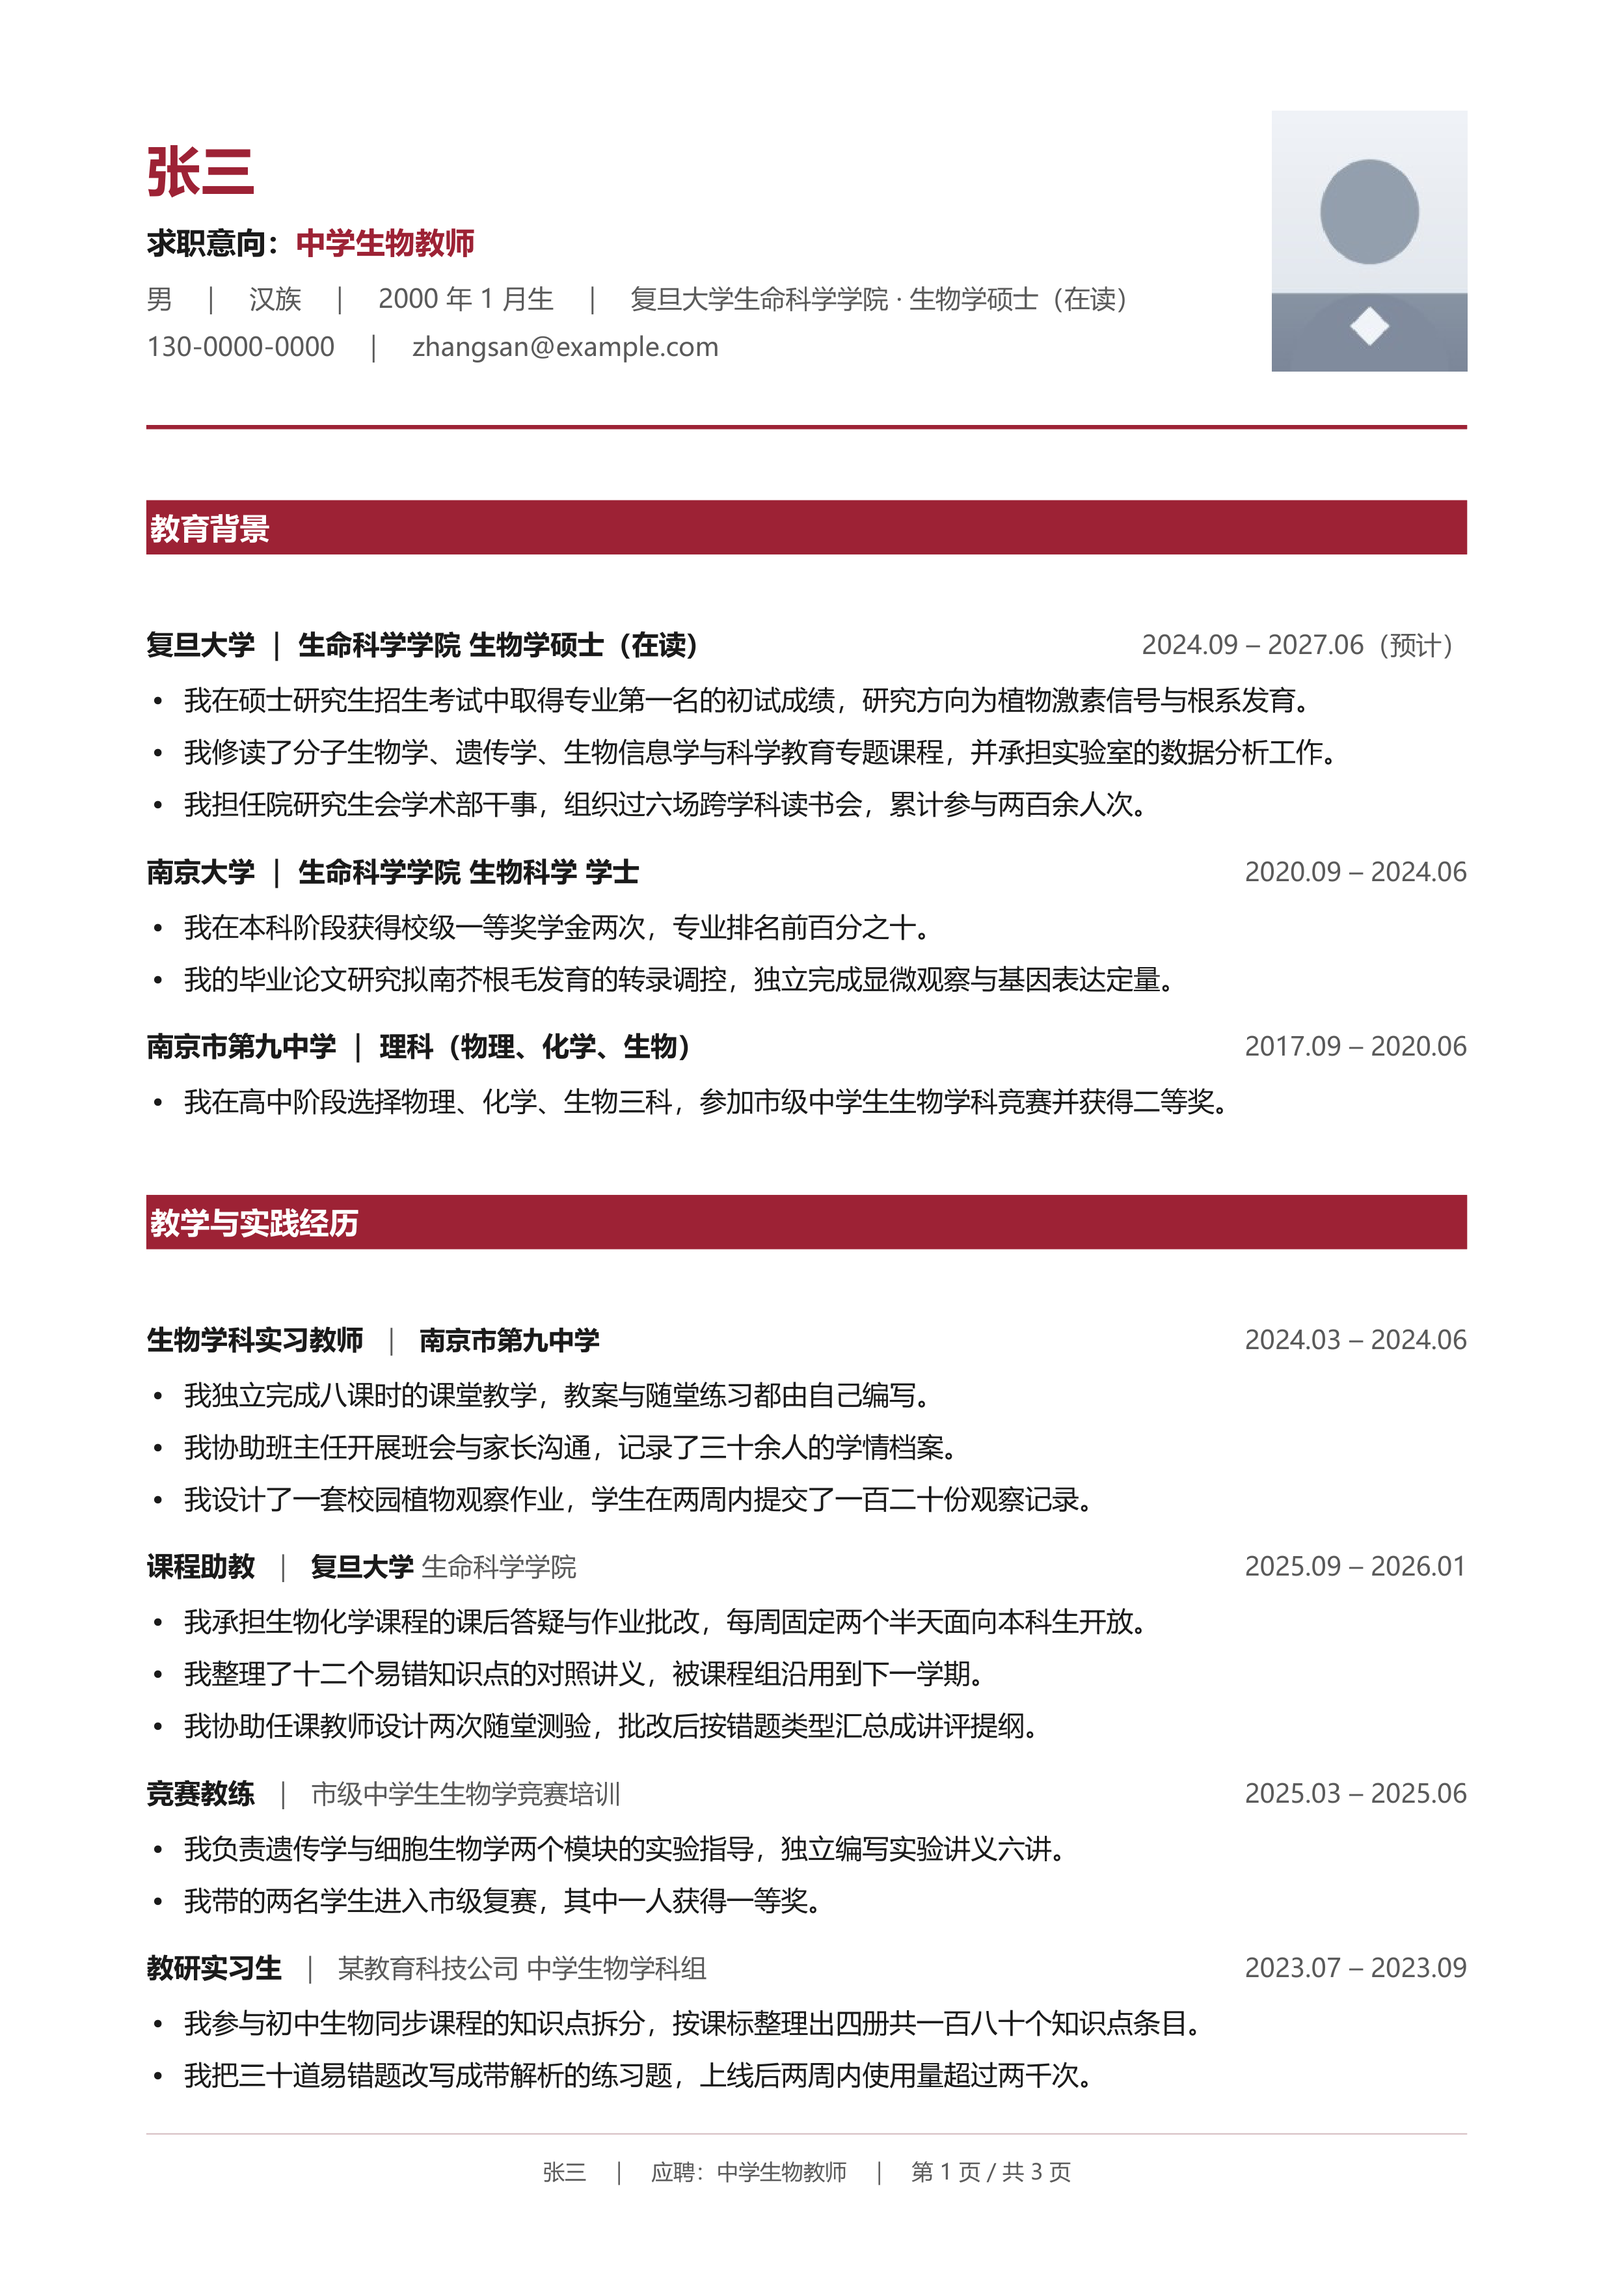
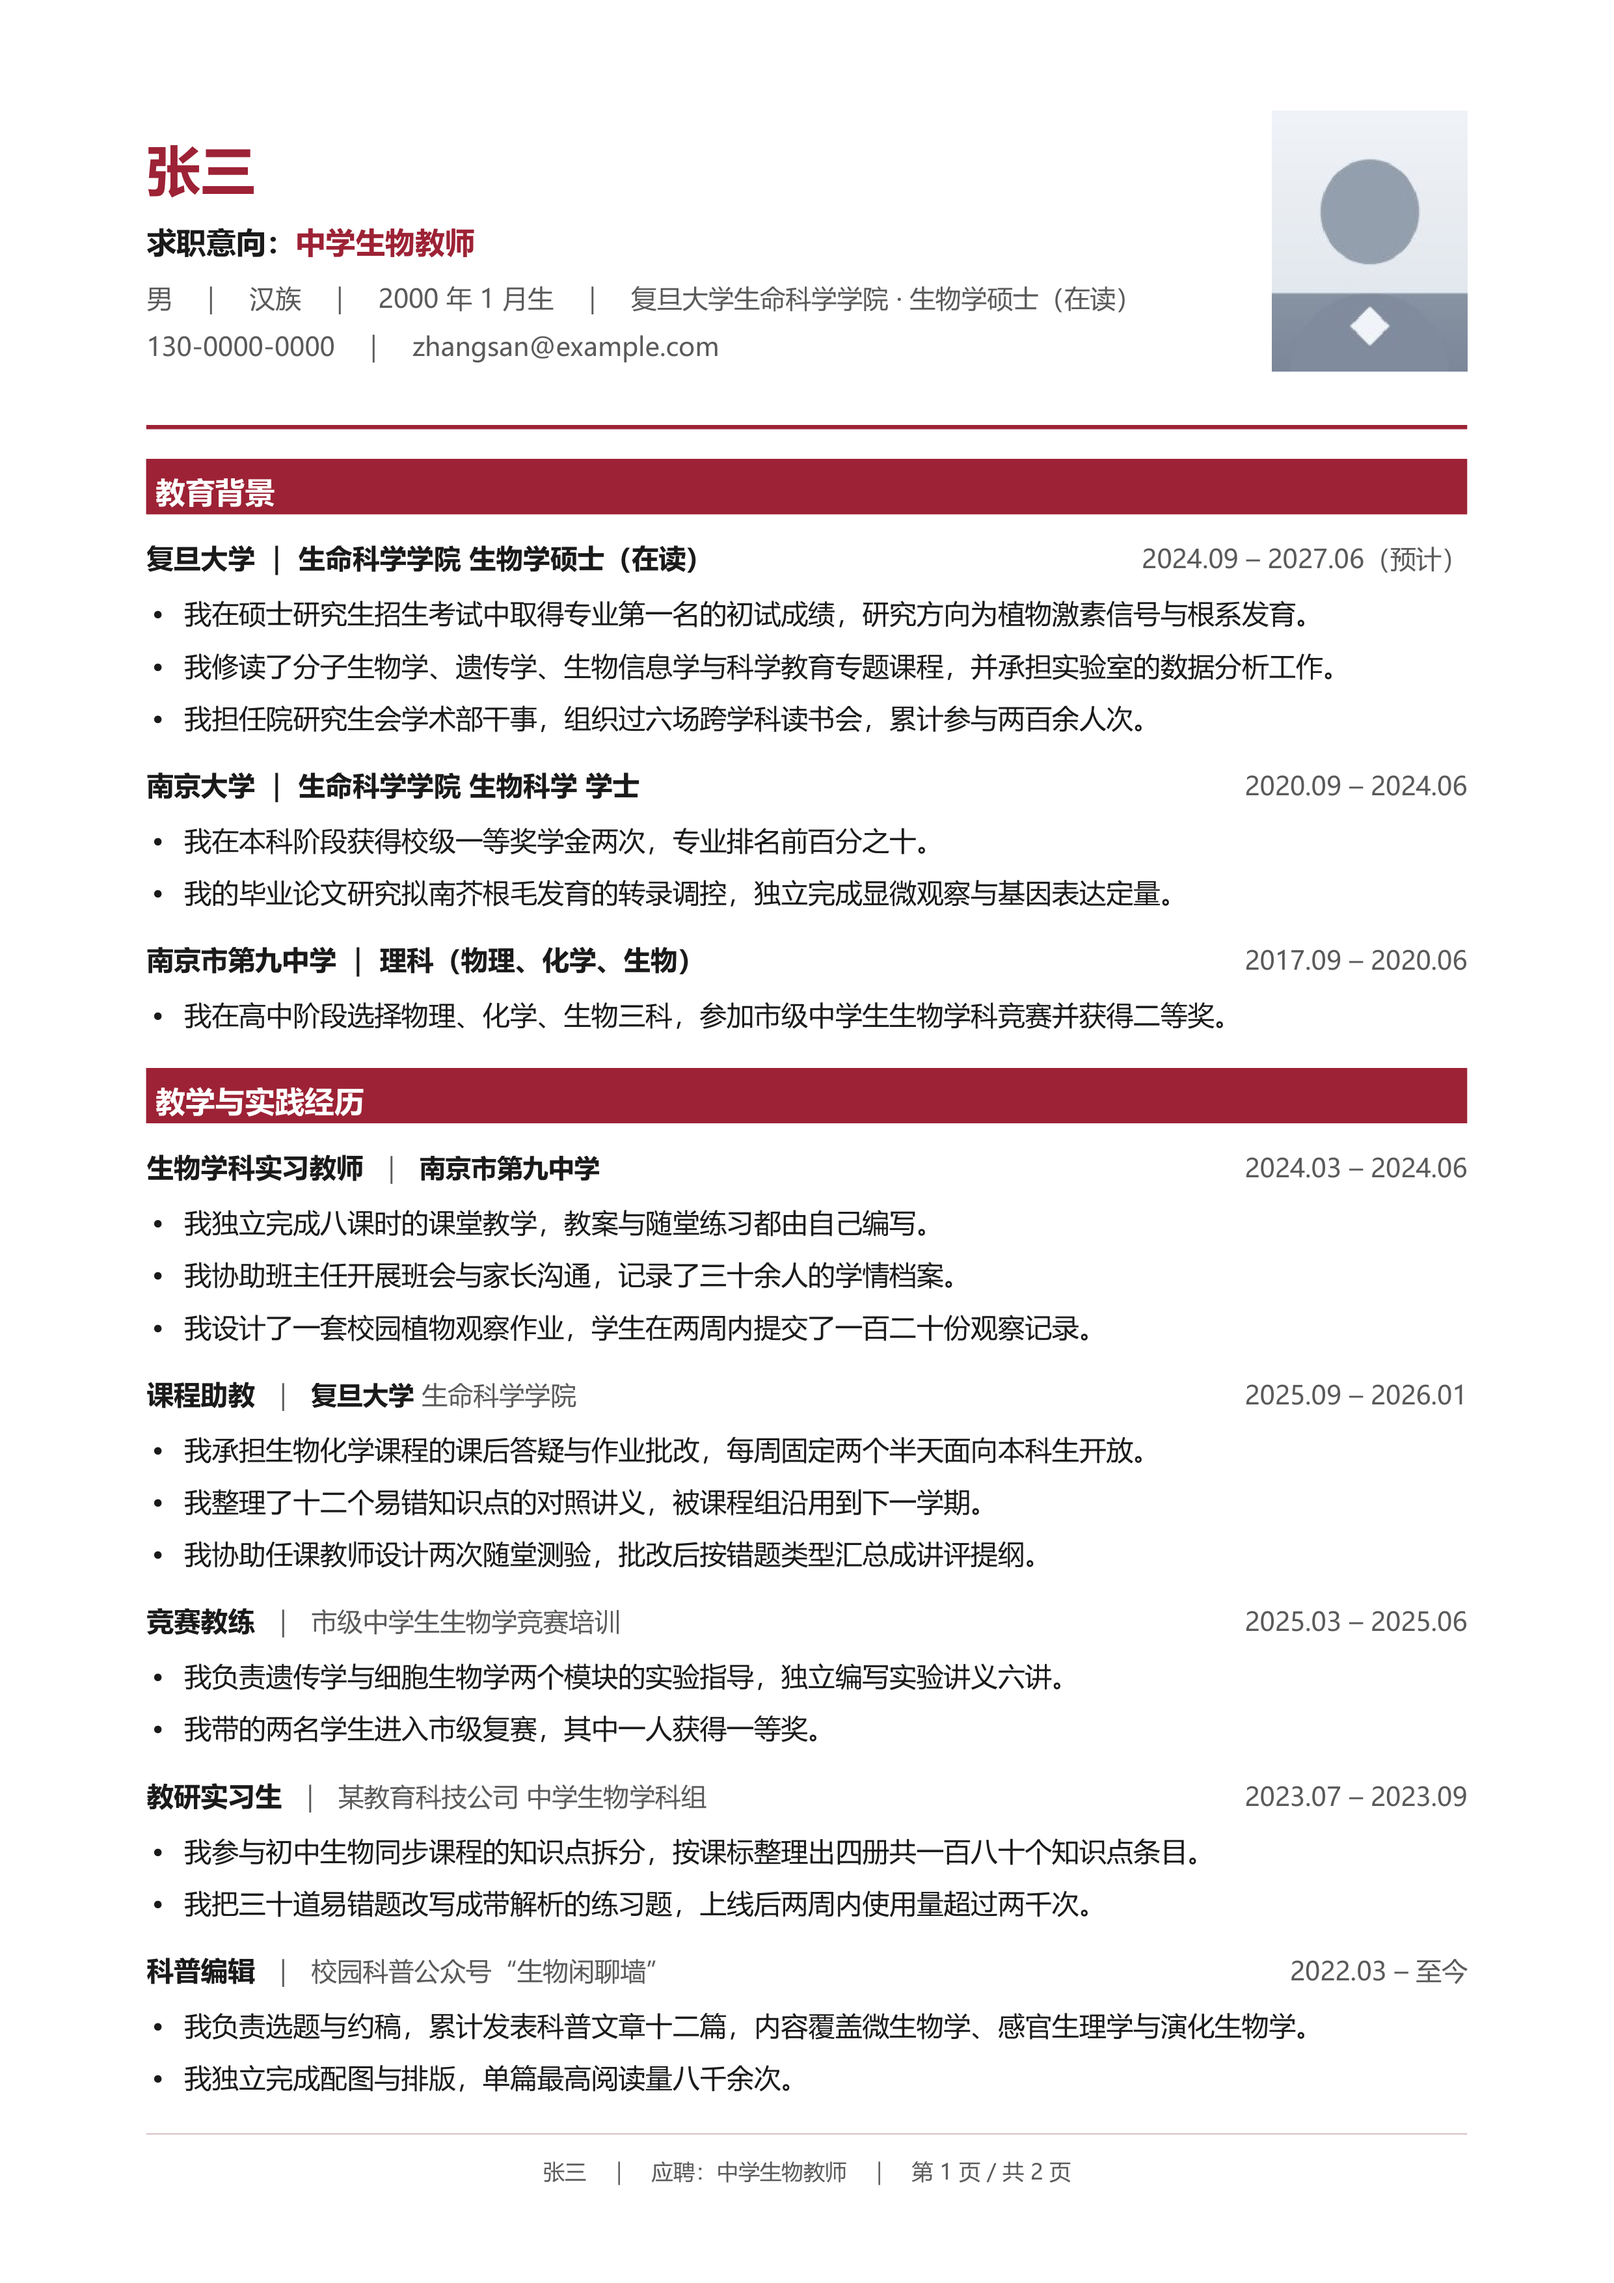
docs: 预览图与示例输出按最新排版更新

diff --git a/README.md b/README.md
@@ -39,7 +39,7 @@ node src/cli.js check --data my-resume --variant teacher-biology
 ✓ schema 校验通过
 ✓ DOCX  .../张三-teacher-biology.docx （104 KB，143 ms）
 ✓ PDF   .../张三-teacher-biology.pdf
-✓ 体例门禁（3 页，判据：PyMuPDF）
+✓ 体例门禁（2 页，判据：PyMuPDF）
 ✓ 语言门禁（17 条规则，0 违例）
 ✓ 字体嵌入（8 个字体描述符，都带嵌入流）
 ✓ 声明字体（PDF 内匹配到 微软雅黑）
